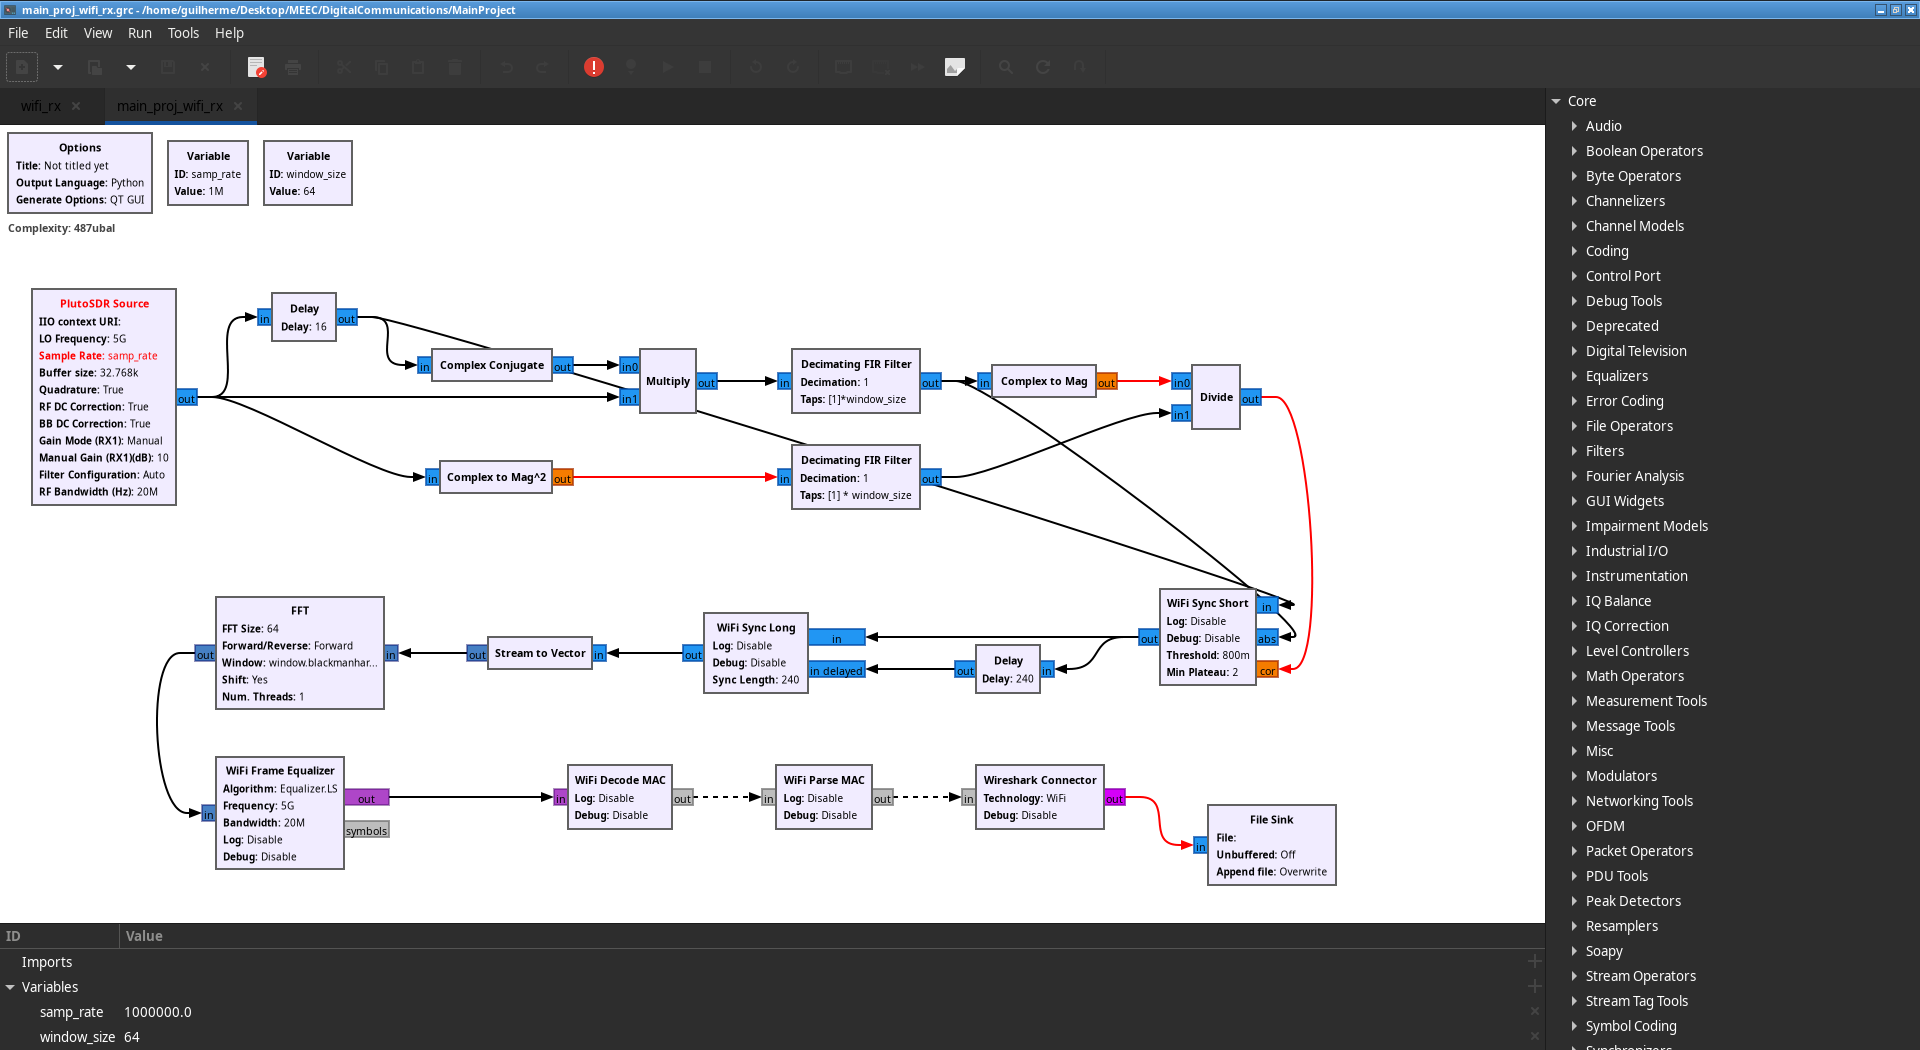
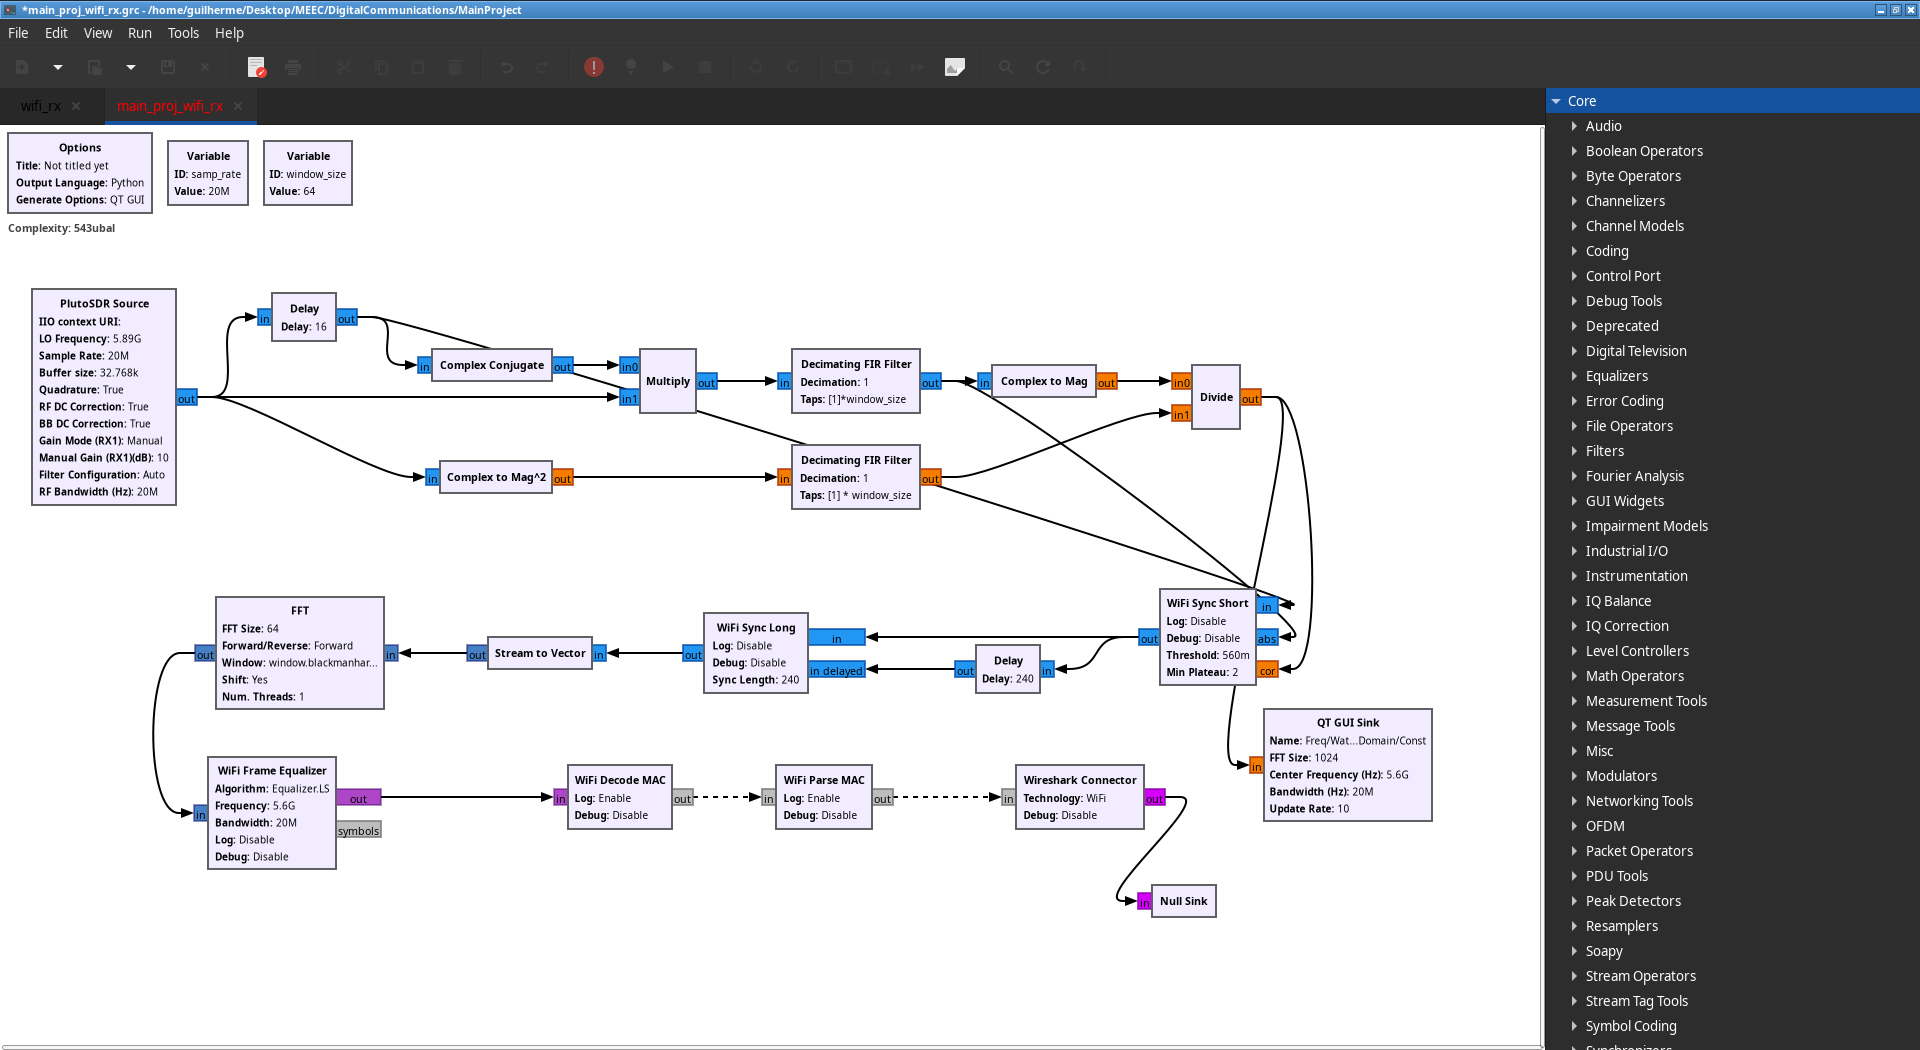
Week's commit for main project - tests ran and flowgraphs used

diff --git a/main_proj_wifi_rx.py b/main_proj_wifi_rx.py
@@ -1,0 +1,209 @@
+#!/usr/bin/env python3
+# -*- coding: utf-8 -*-
+
+#
+# SPDX-License-Identifier: GPL-3.0
+#
+# GNU Radio Python Flow Graph
+# Title: Not titled yet
+# GNU Radio version: 3.10.12.0
+
+from PyQt5 import Qt
+from gnuradio import qtgui
+from gnuradio import blocks
+from gnuradio import fft
+from gnuradio.fft import window
+from gnuradio import filter
+from gnuradio.filter import firdes
+from gnuradio import gr
+import sys
+import signal
+from PyQt5 import Qt
+from argparse import ArgumentParser
+from gnuradio.eng_arg import eng_float, intx
+from gnuradio import eng_notation
+from gnuradio import iio
+import foo
+import ieee802_11
+import sip
+import threading
+
+
+
+class main_proj_wifi_rx(gr.top_block, Qt.QWidget):
+
+    def __init__(self):
+        gr.top_block.__init__(self, "Not titled yet", catch_exceptions=True)
+        Qt.QWidget.__init__(self)
+        self.setWindowTitle("Not titled yet")
+        qtgui.util.check_set_qss()
+        try:
+            self.setWindowIcon(Qt.QIcon.fromTheme('gnuradio-grc'))
+        except BaseException as exc:
+            print(f"Qt GUI: Could not set Icon: {str(exc)}", file=sys.stderr)
+        self.top_scroll_layout = Qt.QVBoxLayout()
+        self.setLayout(self.top_scroll_layout)
+        self.top_scroll = Qt.QScrollArea()
+        self.top_scroll.setFrameStyle(Qt.QFrame.NoFrame)
+        self.top_scroll_layout.addWidget(self.top_scroll)
+        self.top_scroll.setWidgetResizable(True)
+        self.top_widget = Qt.QWidget()
+        self.top_scroll.setWidget(self.top_widget)
+        self.top_layout = Qt.QVBoxLayout(self.top_widget)
+        self.top_grid_layout = Qt.QGridLayout()
+        self.top_layout.addLayout(self.top_grid_layout)
+
+        self.settings = Qt.QSettings("gnuradio/flowgraphs", "main_proj_wifi_rx")
+
+        try:
+            geometry = self.settings.value("geometry")
+            if geometry:
+                self.restoreGeometry(geometry)
+        except BaseException as exc:
+            print(f"Qt GUI: Could not restore geometry: {str(exc)}", file=sys.stderr)
+        self.flowgraph_started = threading.Event()
+
+        ##################################################
+        # Variables
+        ##################################################
+        self.window_size = window_size = 64
+        self.samp_rate = samp_rate = 20000000
+
+        ##################################################
+        # Blocks
+        ##################################################
+
+        self.qtgui_sink_x_0 = qtgui.sink_f(
+            1024, #fftsize
+            window.WIN_BLACKMAN_hARRIS, #wintype
+            5600000000, #fc
+            samp_rate, #bw
+            "Freq/Waterfall/TimeDomain/Const", #name
+            True, #plotfreq
+            True, #plotwaterfall
+            True, #plottime
+            True, #plotconst
+            None # parent
+        )
+        self.qtgui_sink_x_0.set_update_time(1.0/10)
+        self._qtgui_sink_x_0_win = sip.wrapinstance(self.qtgui_sink_x_0.qwidget(), Qt.QWidget)
+
+        self.qtgui_sink_x_0.enable_rf_freq(False)
+
+        self.top_layout.addWidget(self._qtgui_sink_x_0_win)
+        self.iio_pluto_source_0 = iio.fmcomms2_source_fc32('' if '' else iio.get_pluto_uri(), [True, True], 32768)
+        self.iio_pluto_source_0.set_len_tag_key('packet_len')
+        self.iio_pluto_source_0.set_frequency(5890000000)
+        self.iio_pluto_source_0.set_samplerate(samp_rate)
+        self.iio_pluto_source_0.set_gain_mode(0, 'manual')
+        self.iio_pluto_source_0.set_gain(0, 10)
+        self.iio_pluto_source_0.set_quadrature(True)
+        self.iio_pluto_source_0.set_rfdc(True)
+        self.iio_pluto_source_0.set_bbdc(True)
+        self.iio_pluto_source_0.set_filter_params('Auto', '', 0, 0)
+        self.ieee802_11_sync_short_0 = ieee802_11.sync_short(0.56, 2, False, False)
+        self.ieee802_11_sync_long_0 = ieee802_11.sync_long(240, False, False)
+        self.ieee802_11_parse_mac_0 = ieee802_11.parse_mac(True, False)
+        self.ieee802_11_frame_equalizer_0 = ieee802_11.frame_equalizer(ieee802_11.LS, 5.6e9, 20e6, False, False)
+        self.ieee802_11_decode_mac_0 = ieee802_11.decode_mac(True, False)
+        self.foo_wireshark_connector_0 = foo.wireshark_connector(127, False)
+        self.fir_filter_xxx_0_0 = filter.fir_filter_ccc(1, [1]*window_size)
+        self.fir_filter_xxx_0_0.declare_sample_delay(0)
+        self.fir_filter_xxx_0 = filter.fir_filter_fff(1, [1] * window_size)
+        self.fir_filter_xxx_0.declare_sample_delay(0)
+        self.fft_vxx_0 = fft.fft_vcc(window_size, True, window.blackmanharris(64), True, 1)
+        self.blocks_stream_to_vector_0 = blocks.stream_to_vector(gr.sizeof_gr_complex*1, 64)
+        self.blocks_null_sink_0 = blocks.null_sink(gr.sizeof_char*1)
+        self.blocks_multiply_xx_0 = blocks.multiply_vcc(1)
+        self.blocks_divide_xx_0 = blocks.divide_ff(1)
+        self.blocks_delay_0_0 = blocks.delay(gr.sizeof_gr_complex*1, 240)
+        self.blocks_delay_0 = blocks.delay(gr.sizeof_gr_complex*1, 16)
+        self.blocks_conjugate_cc_0 = blocks.conjugate_cc()
+        self.blocks_complex_to_mag_squared_0 = blocks.complex_to_mag_squared(1)
+        self.blocks_complex_to_mag_0 = blocks.complex_to_mag(1)
+
+
+        ##################################################
+        # Connections
+        ##################################################
+        self.msg_connect((self.ieee802_11_decode_mac_0, 'out'), (self.ieee802_11_parse_mac_0, 'in'))
+        self.msg_connect((self.ieee802_11_parse_mac_0, 'out'), (self.foo_wireshark_connector_0, 'in'))
+        self.connect((self.blocks_complex_to_mag_0, 0), (self.blocks_divide_xx_0, 0))
+        self.connect((self.blocks_complex_to_mag_squared_0, 0), (self.fir_filter_xxx_0, 0))
+        self.connect((self.blocks_conjugate_cc_0, 0), (self.blocks_multiply_xx_0, 0))
+        self.connect((self.blocks_delay_0, 0), (self.blocks_conjugate_cc_0, 0))
+        self.connect((self.blocks_delay_0, 0), (self.ieee802_11_sync_short_0, 0))
+        self.connect((self.blocks_delay_0_0, 0), (self.ieee802_11_sync_long_0, 1))
+        self.connect((self.blocks_divide_xx_0, 0), (self.ieee802_11_sync_short_0, 2))
+        self.connect((self.blocks_divide_xx_0, 0), (self.qtgui_sink_x_0, 0))
+        self.connect((self.blocks_multiply_xx_0, 0), (self.fir_filter_xxx_0_0, 0))
+        self.connect((self.blocks_stream_to_vector_0, 0), (self.fft_vxx_0, 0))
+        self.connect((self.fft_vxx_0, 0), (self.ieee802_11_frame_equalizer_0, 0))
+        self.connect((self.fir_filter_xxx_0, 0), (self.blocks_divide_xx_0, 1))
+        self.connect((self.fir_filter_xxx_0_0, 0), (self.blocks_complex_to_mag_0, 0))
+        self.connect((self.fir_filter_xxx_0_0, 0), (self.ieee802_11_sync_short_0, 1))
+        self.connect((self.foo_wireshark_connector_0, 0), (self.blocks_null_sink_0, 0))
+        self.connect((self.ieee802_11_frame_equalizer_0, 0), (self.ieee802_11_decode_mac_0, 0))
+        self.connect((self.ieee802_11_sync_long_0, 0), (self.blocks_stream_to_vector_0, 0))
+        self.connect((self.ieee802_11_sync_short_0, 0), (self.blocks_delay_0_0, 0))
+        self.connect((self.ieee802_11_sync_short_0, 0), (self.ieee802_11_sync_long_0, 0))
+        self.connect((self.iio_pluto_source_0, 0), (self.blocks_complex_to_mag_squared_0, 0))
+        self.connect((self.iio_pluto_source_0, 0), (self.blocks_delay_0, 0))
+        self.connect((self.iio_pluto_source_0, 0), (self.blocks_multiply_xx_0, 1))
+
+
+    def closeEvent(self, event):
+        self.settings = Qt.QSettings("gnuradio/flowgraphs", "main_proj_wifi_rx")
+        self.settings.setValue("geometry", self.saveGeometry())
+        self.stop()
+        self.wait()
+
+        event.accept()
+
+    def get_window_size(self):
+        return self.window_size
+
+    def set_window_size(self, window_size):
+        self.window_size = window_size
+        self.fir_filter_xxx_0.set_taps([1] * self.window_size)
+        self.fir_filter_xxx_0_0.set_taps([1]*self.window_size)
+
+    def get_samp_rate(self):
+        return self.samp_rate
+
+    def set_samp_rate(self, samp_rate):
+        self.samp_rate = samp_rate
+        self.iio_pluto_source_0.set_samplerate(self.samp_rate)
+        self.qtgui_sink_x_0.set_frequency_range(5600000000, self.samp_rate)
+
+
+
+
+def main(top_block_cls=main_proj_wifi_rx, options=None):
+
+    qapp = Qt.QApplication(sys.argv)
+
+    tb = top_block_cls()
+
+    tb.start()
+    tb.flowgraph_started.set()
+
+    tb.show()
+
+    def sig_handler(sig=None, frame=None):
+        tb.stop()
+        tb.wait()
+
+        Qt.QApplication.quit()
+
+    signal.signal(signal.SIGINT, sig_handler)
+    signal.signal(signal.SIGTERM, sig_handler)
+
+    timer = Qt.QTimer()
+    timer.start(500)
+    timer.timeout.connect(lambda: None)
+
+    qapp.exec_()
+
+if __name__ == '__main__':
+    main()
